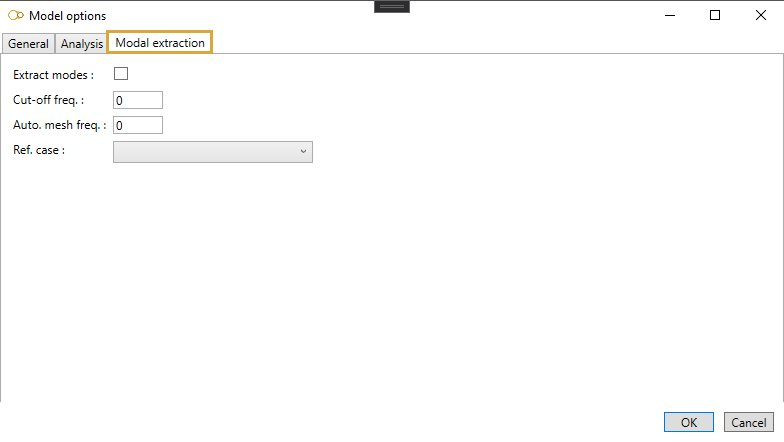
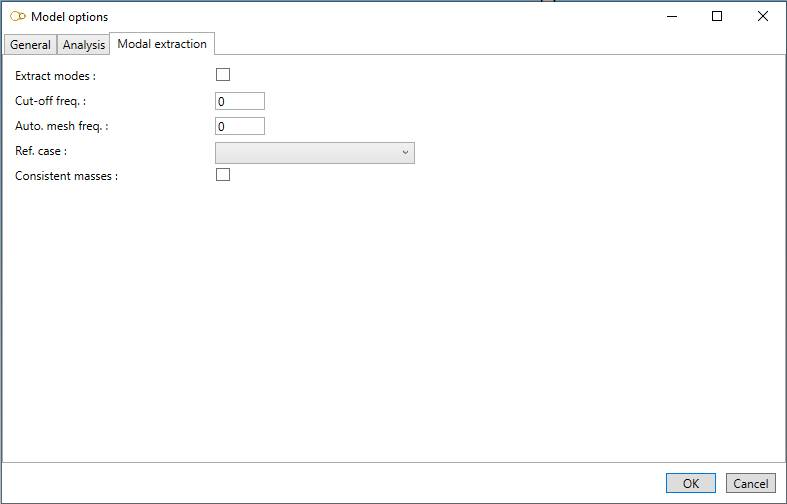
Piping options

diff --git a/Design/Specification/Options.md b/Design/Specification/Options.md
@@ -48,4 +48,5 @@ This tab let you define the **calculation code** and its **Edition**, the direct
 - **Extract modes** : check this option to extract the mode shapes
 - **Cut-off freq.** : only the mode shapes below to the cut-off frequency are extracted 
 - **Auto. mesh freq.** : if different from 0, additional mass points will be generated to ensure that the mode shapes up to this frequency are accurate. This frequency should be equal or larger than the cut-off frequency
-- **Ref. case** : if the **Hot modulus** option is checked, the Young modulus Eh used for the modal extraction is evaluated at the temperature of the reference case 
+- **Ref. case** : if the **Hot modulus** option is checked, the Young modulus Eh used for the modal extraction is evaluated at the temperature of the reference case
+- **Consistent masses** : 
